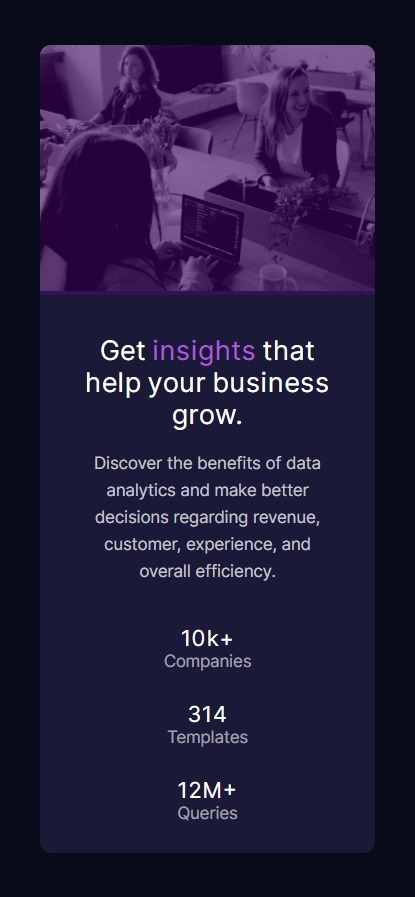
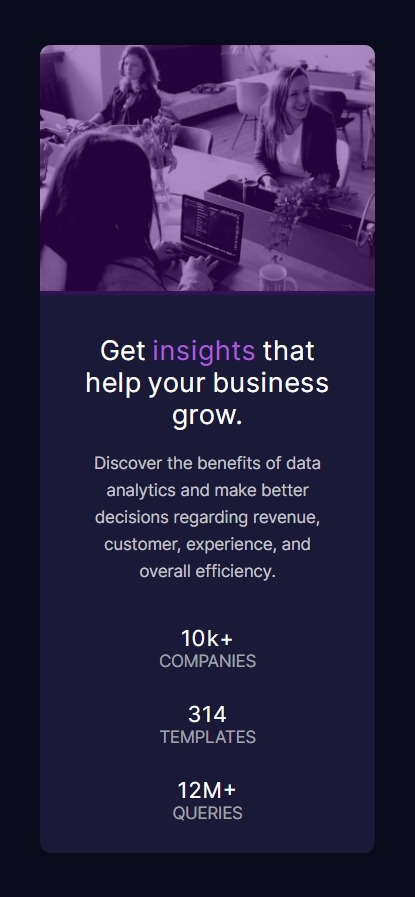
Documentation on CSS

diff --git a/src/css/style.css b/src/css/style.css
@@ -1,15 +1,19 @@
+/*-- **INFORMATION**
+The designs were created to the following widths:
+- Mobile: 375px
+- Desktop: 1440px
+--*/
+
+/*=============================================
+=     HEADER SECTION | ROOT & IMPORTS            =
+=============================================*/
+
+/*----------  START SUBSECTION | Google Fonts   ----------*/
 @import url('https://fonts.googleapis.com/css2?family=Inter:wght@400;700&family=Lexend+Deca&display=swap');
 
-*,
-*::before,
-*::after {
-    margin    : 0;
-    padding   : 0;
-    box-sizing: border-box;
-}
 
+/*----------  START SUBSECTION | Global Variables   ----------*/
 :root {
-
     /*-- Primary Colors --*/
     --color-main-bg       : hsl(233, 47%, 7%);
     --color-main-bg-card  : hsl(244, 38%, 16%);
@@ -24,6 +28,19 @@
     /*-- Font Size --*/
     --font-size-title     : 24px;
     --font-size-text      : 15px;
+}
+
+/*============ FOOTER SECTION | ROOT & IMPORTS =========*/
+
+/*=============================================
+=             START SECTION | CODE           =
+=============================================*/
+*,
+*::before,
+*::after {
+    margin    : 0;
+    padding   : 0;
+    box-sizing: border-box;
 }
 
 body {
@@ -70,8 +87,8 @@ img {
     top           : 0;
     left          : 0;
     z-index       : -1 !important;
-    filter        : brightness(70%) contrast(120%);
-    -webkit-filter: brightness(70%) contrast(120%);
+    filter        : brightness(100%) contrast(120%);
+    -webkit-filter: brightness(100%) contrast(120%);
 }
 
 .card_info-container {
@@ -110,10 +127,14 @@ img {
 }
 
 .card_data-container .card_data-info .card_data-text {
-    color: var(--color-stat-heading);
+    color         : var(--color-stat-heading);
     text-transform: uppercase;
 }
+/*=====  END OF SECTION CODE  ======*/
 
+/*=============================================
+=       START SECTION | MEDIA QUERY           =
+=============================================*/
 @media only screen and (min-width: 760px) {
     .card_container {
         margin: 5rem 7rem;
@@ -167,7 +188,7 @@ img {
     .card_info-container>p {
         padding-bottom: 5rem;
         padding-right : 2rem;
-        line-height: 1.7rem;
+        line-height   : 1.7rem;
         font-size     : 18px;
     }
 
@@ -181,13 +202,15 @@ img {
     }
 
     .card_data-container .card_data-info .card_data-title {
-        font-size  : 26px;
+        font-size     : 26px;
         padding-bottom: .5rem;
     }
 
     .card_data-container .card_data-info .card_data-text {
-        color: var(--color-stat-heading);
+        color         : var(--color-stat-heading);
         letter-spacing: .1rem;
-        font-size: 14px;
+        font-size     : 14px;
     }
+
+    /*=====  END OF SECTION MEDIA QUERY  ======*/
 }
